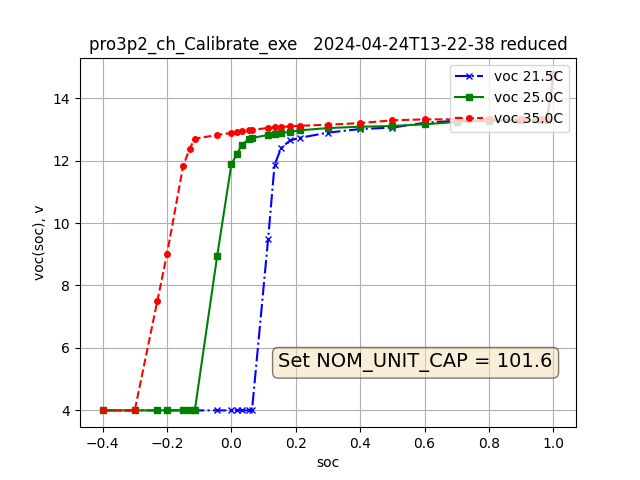
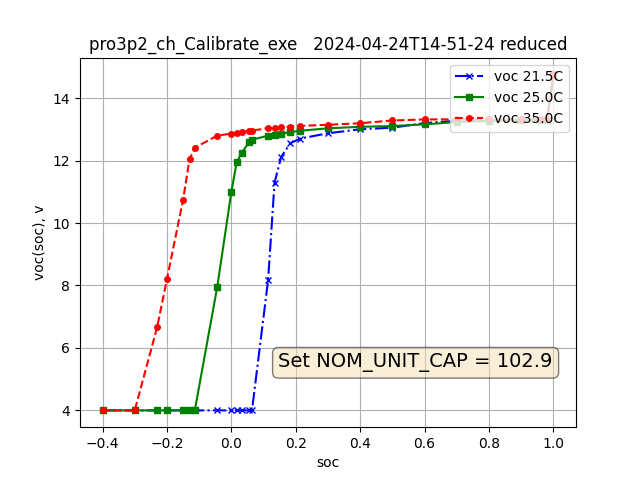
tweak shutoff in caibrate_exe

diff --git a/SOC_Particle/py/Calibrate_exe.py b/SOC_Particle/py/Calibrate_exe.py
@@ -72,19 +72,22 @@ def finish(mash_data, soc_rated_off, actual_nom_unit_cap):
     return fin_data        
 
 
-def mash(raw_data, v_off_thresh=Battery.VB_OFF, rated_temp=25.):
+def mash(raw_data, v_off_thresh=None, rated_temp=25.):
     """Mash all data together normalized with same ordinates"""
 
     # Aggregate the normalized soc data
     soc = []
     soc_rated_off = 1.  # initial value only
+    s_rf = None
     for (curve, nom_unit_cap, temp, p_color, p_style, marker, marker_size) in raw_data:
+        soc_norm = 1. - (1. - curve.soc) * nom_unit_cap / Battery.UNIT_CAP_RATED
+        lut_vstat_soc = myTables.TableInterp1D(curve.vstat, soc_norm)
+        if abs(temp - rated_temp) < 3:
+            soc_rated_off = lut_vstat_soc.interp(v_off_thresh)
         for i in np.arange(len(curve.soc)):
             soc_data = curve.soc[i]
             vstat = curve.vstat[i]
             soc_normal = normalize_soc(soc_data, nom_unit_cap, Battery.UNIT_CAP_RATED)
-            if vstat > v_off_thresh-1. and abs(temp - rated_temp) < 3:
-                soc_rated_off = min(soc_rated_off, soc_normal)
             soc.append(soc_normal)
     soc_sort = np.unique(np.array(soc))
 
@@ -102,14 +105,14 @@ def mash(raw_data, v_off_thresh=Battery.VB_OFF, rated_temp=25.):
     return mashed_data, soc_rated_off
 
 
-def minimums(fin_data):
+def minimums(fin_data, vb_off):
     """Find minimum soc schedule"""
     t_min = []
     soc_min = []
     for (curve, nom_unit_cap, temp, p_color, p_style, marker, marker_size) in fin_data:
         t_min.append(temp)
         lut_voc_soc = myTables.TableInterp1D(curve.vstat, curve.soc)
-        soc_min.append(lut_voc_soc.interp(Battery.VB_OFF))
+        soc_min.append(lut_voc_soc.interp(vb_off))
 
     return t_min, soc_min
 
@@ -221,10 +224,19 @@ def main(data_files=None, breaks=None):
     fig_files = []
     data_root = None
     unit = None
+    chm = None
+    vb_off = None
     for (data_file, nom_unit_cap, temp, p_color, p_style, marker, marker_size) in data_files:
         (data_file_folder, data_file_txt) = os.path.split(data_file)
         unit_key = data_file_txt.split(' ')[-1].split('.')[0]
         unit = unit_key.split('_')[0]
+        chm = unit_key.split('_')[1]
+        if chm == 'bb' or chm == 'BB':
+            vb_off = Battery.VB_OFF_BB
+        elif chm == 'ch' or chm == 'CH':
+            vb_off = Battery.VB_OFF_CH
+        else:
+            print("chm", chm, "is not defined")
         data_file_clean = write_clean_file(data_file, type_='', hdr_key=hdr_key, unit_key=unit_key)
         if data_file_clean is None:
             print(f"case {data_file=} {temp=} is dirty...skipping")
@@ -237,7 +249,7 @@ def main(data_files=None, breaks=None):
             Raw_files.append((Raw_data, nom_unit_cap, temp, p_color, p_style, marker, marker_size))
 
     # Mash all the data to one table and normalize to NOM_UNIT_CAP = 100
-    Mashed_data, soc_rated_off = mash(Raw_files)
+    Mashed_data, soc_rated_off = mash(Raw_files, v_off_thresh=vb_off)
     actual_cap = (1.-soc_rated_off) * Battery.UNIT_CAP_RATED
 
     # Shift and scale curves for calculated capacity
@@ -247,7 +259,7 @@ def main(data_files=None, breaks=None):
     Massaged_curves = reduce(Finished_curves, breaks)
 
     # Find minimums
-    t_min, soc_min = minimums(Finished_curves)
+    t_min, soc_min = minimums(Finished_curves, vb_off=vb_off)
 
     # Print
     n_n = len(t_min)

diff --git a/SOC_Particle/src/Chemistry_BMS.cpp b/SOC_Particle/src/Chemistry_BMS.cpp
@@ -128,7 +128,7 @@ void Chemistry::assign_all_chm(const String mod_str)
     float X_SOC_MIN[N_N] = {0.000,  11.00,  21.5,  40.000, };  // Temperature breakpoints for soc_min table
     float T_SOC_MIN[N_N] = {0.31,   0.31,   0.1,   0.1, };  // soc_min(t)
 #elif ( defined(CONFIG_PRO3P2) )
-    // 2024-04-24T04-25-46:  tune to data
+    // 2024-04-24T14-51-24:  tune to data
     const uint8_t M_T = 3;    // Number temperature breakpoints for voc table
     const uint8_t N_S = 28;   // Number soc breakpoints for voc table
     float Y_T[M_T] = // Temperature breakpoints for voc table
@@ -137,13 +137,13 @@ void Chemistry::assign_all_chm(const String mod_str)
         {-0.400, -0.300, -0.230, -0.200, -0.150, -0.130, -0.114, -0.044,  0.000,  0.016,  0.032,  0.055,  0.064,  0.114,  0.134,  0.154,  0.183,  0.214,  0.300,  0.400,  0.500,  0.600,  0.700,  0.800,  0.900,  0.960,  0.980,  1.000, }; 
     float T_VOC[M_T * N_S] = // soc breakpoints for soc_min table
         {
-        4.000,  4.000,  4.000,  4.000,  4.000,  4.000,  4.000,  4.000,  4.000,  4.000,  4.000,  4.000,  4.000,  9.481, 11.854, 12.408, 12.649, 12.733, 12.895, 13.010, 13.057, 13.210, 13.277, 13.284, 13.299, 13.307, 13.310, 14.700, 
-        4.000,  4.000,  4.000,  4.000,  4.000,  4.000,  4.000,  8.950, 11.880, 12.198, 12.495, 12.700, 12.725, 12.820, 12.850, 12.881, 12.925, 12.972, 13.041, 13.084, 13.107, 13.162, 13.237, 13.273, 13.286, 13.300, 13.300, 14.760, 
-        4.000,  4.000,  7.500,  9.000, 11.812, 12.374, 12.701, 12.819, 12.885, 12.910, 12.933, 12.968, 12.981, 13.045, 13.060, 13.076, 13.097, 13.116, 13.150, 13.200, 13.290, 13.320, 13.320, 13.320, 13.320, 13.320, 13.320, 14.760, 
+        4.000,  4.000,  4.000,  4.000,  4.000,  4.000,  4.000,  4.000,  4.000,  4.000,  4.000,  4.000,  4.000,  8.170, 11.285, 12.114, 12.558, 12.707, 12.875, 13.002, 13.054, 13.201, 13.275, 13.284, 13.299, 13.307, 13.310, 14.700, 
+        4.000,  4.000,  4.000,  4.000,  4.000,  4.000,  4.000,  7.947, 11.000, 11.946, 12.252, 12.588, 12.670, 12.797, 12.833, 12.864, 12.908, 12.957, 13.034, 13.081, 13.106, 13.159, 13.234, 13.272, 13.286, 13.300, 13.300, 14.760, 
+        4.000,  4.000,  6.686,  8.206, 10.739, 12.045, 12.411, 12.799, 12.866, 12.890, 12.914, 12.949, 12.963, 13.037, 13.052, 13.067, 13.089, 13.112, 13.146, 13.196, 13.284, 13.318, 13.320, 13.320, 13.320, 13.320, 13.320, 14.760, 
         };
     const uint8_t N_N = 3; // Number of temperature breakpoints for x_soc_min table
     float X_SOC_MIN[N_N] = {21.5, 25.0, 35.0, };  // Temperature breakpoints for soc_min table
-    float T_SOC_MIN[N_N] = {0.12, -0.03, -0.18, };  // soc_min(t)
+    float T_SOC_MIN[N_N] = {0.13, 0.00, -0.14, };  // soc_min(t)
 #endif
 
 

diff --git a/SOC_Particle/py/Chemistry_BMS.py b/SOC_Particle/py/Chemistry_BMS.py
@@ -191,24 +191,24 @@ class Chemistry(BMS):
         self.ib_lag_tau = IB_LAG_CH  # Lag time to wash out sat effect on dv, s
 
         if unit == 'pro3p2' or unit == 'soc2p2':
-            # 2024-04-24T07-53-38:  tune to data
+            # 2024-04-24T14-51-24:  tune to data
             t_y_t1 = [21.5, 25.0, 35.0, ]
             t_x_soc1 = [-0.400, -0.300, -0.230, -0.200, -0.150, -0.130, -0.114, -0.044, 0.000, 0.016, 0.032, 0.055,
                         0.064, 0.114, 0.134, 0.154, 0.183, 0.214, 0.300, 0.400, 0.500, 0.600, 0.700, 0.800, 0.900,
                         0.960, 0.980, 1.000, ]
             t_voc1 = [
-                4.000, 4.000, 4.000, 4.000, 4.000, 4.000, 4.000, 4.000, 4.000, 4.000, 4.000, 4.000, 4.000, 9.481,
-                11.854, 12.408, 12.649, 12.733, 12.895, 13.010, 13.057, 13.210, 13.277, 13.284, 13.299, 13.307, 13.310,
+                4.000, 4.000, 4.000, 4.000, 4.000, 4.000, 4.000, 4.000, 4.000, 4.000, 4.000, 4.000, 4.000, 8.170,
+                11.285, 12.114, 12.558, 12.707, 12.875, 13.002, 13.054, 13.201, 13.275, 13.284, 13.299, 13.307, 13.310,
                 14.700,
-                4.000, 4.000, 4.000, 4.000, 4.000, 4.000, 4.000, 8.950, 11.880, 12.198, 12.495, 12.700, 12.725, 12.820,
-                12.850, 12.881, 12.925, 12.972, 13.041, 13.084, 13.107, 13.162, 13.237, 13.273, 13.286, 13.300, 13.300,
+                4.000, 4.000, 4.000, 4.000, 4.000, 4.000, 4.000, 7.947, 11.000, 11.946, 12.252, 12.588, 12.670, 12.797,
+                12.833, 12.864, 12.908, 12.957, 13.034, 13.081, 13.106, 13.159, 13.234, 13.272, 13.286, 13.300, 13.300,
                 14.760,
-                4.000, 4.000, 7.500, 9.000, 11.812, 12.374, 12.701, 12.819, 12.885, 12.910, 12.933, 12.968, 12.981,
-                13.045, 13.060, 13.076, 13.097, 13.116, 13.150, 13.200, 13.290, 13.320, 13.320, 13.320, 13.320, 13.320,
+                4.000, 4.000, 6.686, 8.206, 10.739, 12.045, 12.411, 12.799, 12.866, 12.890, 12.914, 12.949, 12.963,
+                13.037, 13.052, 13.067, 13.089, 13.112, 13.146, 13.196, 13.284, 13.318, 13.320, 13.320, 13.320, 13.320,
                 13.320, 14.760,
             ]
             t_x_soc_min1 = [21.5, 25.0, 35.0, ]
-            t_soc_min1 = [0.12, -0.03, -0.18, ]
+            t_soc_min1 = [0.13, 0.00, -0.14, ]
         else:
             # Tables CHINS Bmon=1, Bsim=1, from ReGaugeVocSoc 3/2/2023 soc0p
             # VOC_SOC table

diff --git a/SOC_Particle/src/local_config.h.pro3p2.h b/SOC_Particle/src/local_config.h.pro3p2.h
@@ -46,7 +46,7 @@
 #define COULOMBIC_EFF_SCALE   1.0     // Scalar on Coulombic efficiency of battery, fraction of charge that gets used (1.0)
 #define MON_CHEM              1       // Chemistry monitor code integer, 0=Battleborn, 1=CHINS
 #define SIM_CHEM              1       // Chemistry simulate code integer, 0=Battleborn, 1=CHINS
-#define NOM_UNIT_CAP          101.6   // Nominal battery unit capacity.  (* 'Sc' or '*BS'/'*BP'), Ah
+#define NOM_UNIT_CAP          102.9   // Nominal battery unit capacity.  (* 'Sc' or '*BS'/'*BP'), Ah
 #define HYS_SCALE             1.0     // Scalar on hysteresis (1.0)
 #define NS                    2.0     // Number of series batteries in bank.  Fractions scale and remember NOM_UNIT_CAP (* 'BS')
 #define NP                    2.0     // Number of parallel batteries in bank.  Fractions scale and remember NOM_UNIT_CAP (* 'BP')

diff --git a/SOC_Particle/py/Battery.py b/SOC_Particle/py/Battery.py
@@ -76,7 +76,8 @@ class Battery(Coulombs):
     MAX_WRAP_ERR_FILT = 10.  # Anti-windup wrap error filter, V (10)
     F_MAX_T_WRAP = 2.8  # Maximum update time of Wrap filter for stability at WRAP_ERR_FILT, s (2.8)
     D_SOC_S = 0.  # Bias on soc to voc-soc lookup to simulate error in estimation, esp cold battery near 0 C
-    VB_OFF = 10.  # BMS shutoff lever, v (10)
+    VB_OFF_BB = 10.  # BMS shutoff level, Battleborn, v (10)
+    VB_OFF_CH = 11.  # BMS shutoff level, CHINS, v (11)
     # """Nominal battery bank capacity, Ah(100).Accounts for internal losses.This is
     #                         what gets delivered, e.g. Wshunt / NOM_SYS_VOLT.  Also varies 0.2 - 0.4 C currents
     #                         or 20 - 40 A for a 100 Ah battery"""

diff --git a/SOC_Particle/py/CompareHistSim.py b/SOC_Particle/py/CompareHistSim.py
@@ -1102,7 +1102,7 @@ def compare_hist_sim(data_file=None, time_end_in=None, rel_path_to_save_pdf='./f
             chm = None
         unit = unit_key.split('_')[-2]
         if unit == 'pro3p2' or unit == 'soc2p2':
-            rated_batt_cap_in = 101.6  # A-hr capacity of test article
+            rated_batt_cap_in = 102.9  # A-hr capacity of test article (output of Calibrate_exe.py)
         else:
             rated_batt_cap_in = 108.4  # A-hr capacity of test article
     qcrs = rated_batt_cap_in * Battery.UNIT_CAP_RATED * 3600.
